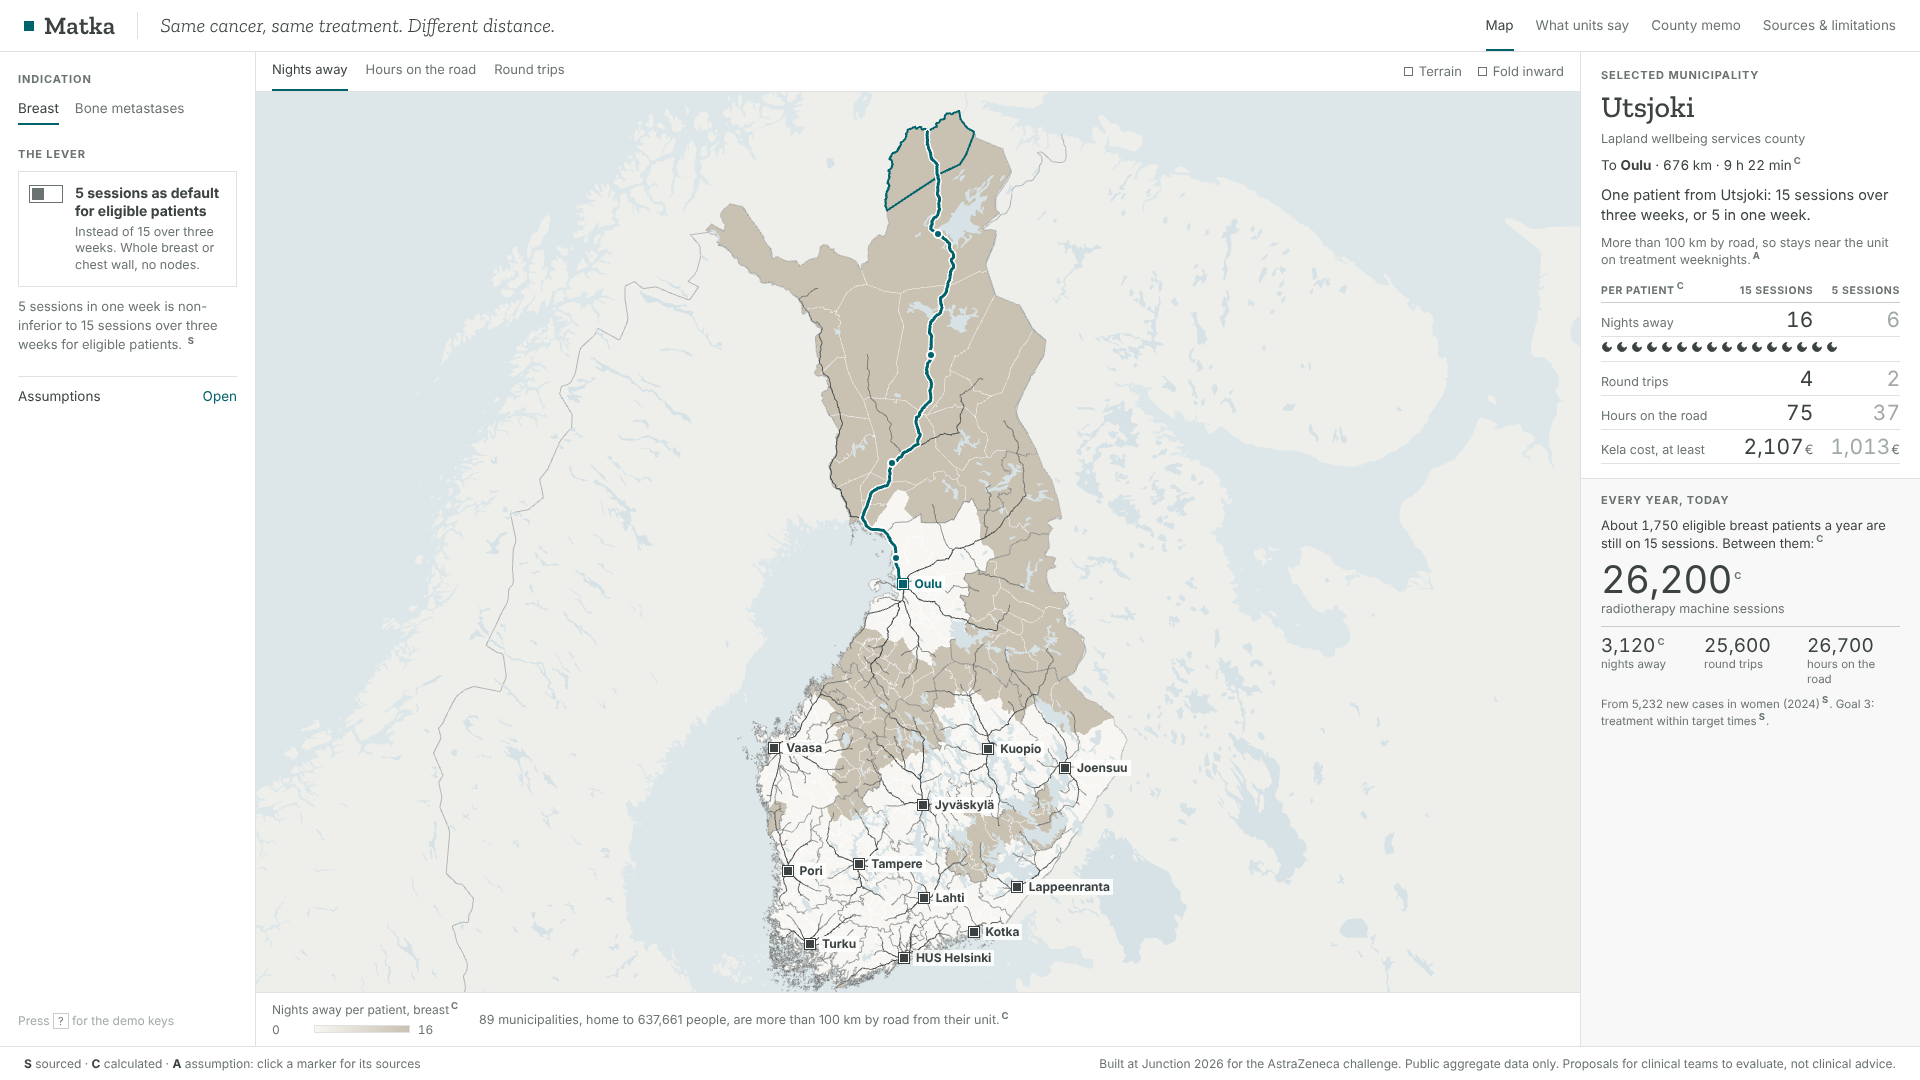
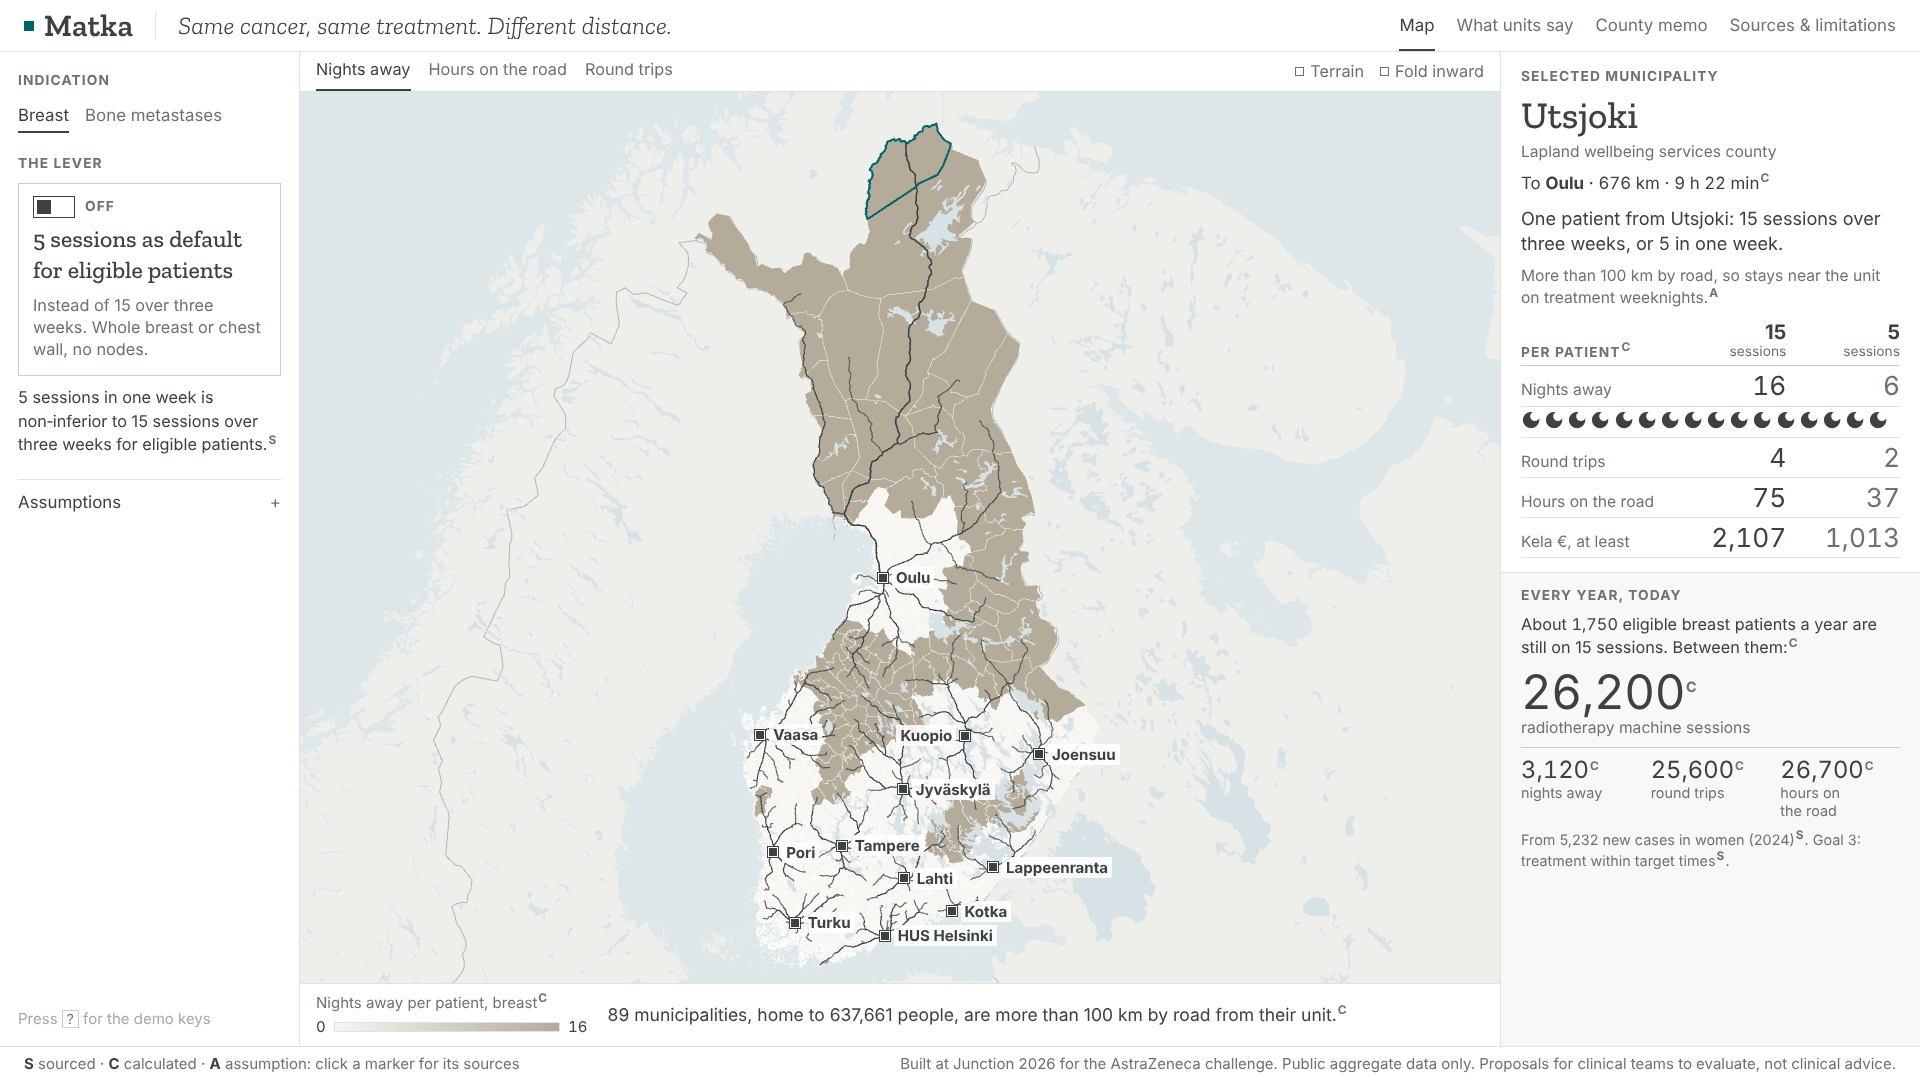
MORNING.md: redesign status, checks, critic rounds, llm-api confirmation, new demo script; PROGRESS.md
Claude-Session: https://claude.ai/code/session_01BVjSLfsprYUuCUa8VpGdqa

diff --git a/MORNING.md b/MORNING.md
@@ -2,7 +2,7 @@
 
 ## 0. Redesign status (branch `redesign`)
 
-**STATUS_PLACEHOLDER**
+**The redesign is solid and ready to present (finished about 02:45 Helsinki, well before the 07:00 cut-off).** All checks below pass on the final commit. If anything misbehaves on the presenting laptop, `claude/sharp-sagan-uaohy1` still has the old demo, untouched.
 
 - Branch: `redesign`, cut from `claude/sharp-sagan-uaohy1` at its tip **236197c** (one screenshot-only commit after 96dad9b). `claude/sharp-sagan-uaohy1` is untouched. The cloud session also mirrors every push to `claude/funny-franklin-79imfr` (the platform's session branch); it holds the same commits.
 - The old demo is still on `claude/sharp-sagan-uaohy1`. To present it instead: `git checkout claude/sharp-sagan-uaohy1`.
@@ -15,7 +15,47 @@ Then open http://localhost:4173. Everything is bundled: no tile server, no keys,
 
 ### Checks
 
-CHECKS_PLACEHOLDER
+All run on the final commit of `redesign`:
+
+- `npx vitest run`: **21 tests pass** (4 new: lever-off yearly burden, lever-on removed = old totals, current − removed = same patients on 5 sessions, trip dots 4 → 2).
+- `.venv/bin/python -I scripts/09_check_data.py`: **passes**. It now also checks `route_lines.json` (all 292 routes present, km/min equal to routes.json, endpoints snapped to the municipality centre and the unit) and `basemap.json`.
+- `npx playwright test tests/e2e/layout.spec.ts --trace off`: **passes at 1280×720, 1440×900 and 1920×1080**. Every demo step (16 per size), checked for overlapping panels, cards and labels within the same `data-layer`, for clipped text (`scrollWidth > clientWidth`), and for boxes cut off by their scroll container or the window. It also asserts the map is ≥ 60% of the width, no console errors, and no request leaving localhost. Screenshots: `screenshots/redesign/<size>/`.
+- `npx playwright test tests/e2e/demo.spec.ts --trace off`: **passes**. Keys 0–7, no console errors, no external requests, the bone card line unclipped, and key 2 ends the counter at exactly "676 km · 9 h 22 min". Screenshots: `screenshots/redesign/demo-1440x900/`.
+- `npx playwright test tests/e2e/viewports.spec.ts --trace off`: **passes** (512×384 to 1920×1080). The fitBounds fallback is kept.
+- `npx oxlint`: 0 errors, 3 warnings (fast-refresh export and a setState-in-effect in MemoTab, all harmless).
+- Data scripts: `scripts/11_natural_earth.py` (raw.githubusercontent.com reachable; 18 MB raw cache in `data/raw/naturalearth/`, gitignored). `scripts/10_route_lines.py` (router.project-osrm.org reachable; 292 routes fetched once and cached in `data/raw/osrm_routes/`, committed like the other OSRM caches). The largest difference between the OSRM route length and routes.json `road_km` is 0.0 km.
+
+### Design critic rounds
+
+Two fresh design-critic sub-agents reviewed the screenshots. Their fixes were applied, and the layout test was re-run after each round.
+
+- **Round 1 (applied):**
+  - Fluid `rem` type scale (14px up to ~1330px wide, ~17.5px at 1920), so text grows on large projectors.
+  - The lever has an explicit On/Off state and a larger switch.
+  - Teal is kept for data only: routes, the selection, the lever-on state and "after" values. UI underlines, links and slider thumbs are graphite.
+  - Darker choropleth.
+  - The terrain sits on the flat choropleth (zero-height areas keep their fill), with softer light and lower relief.
+  - County outlines are drawn only when zoomed in (they speckled the archipelago).
+  - A faint ghost of the folded-away route.
+  - Only the remaining nights turn teal.
+  - Non-breaking "non-inferior" and "8 Gy"; markers stay on the line with their last word.
+  - The memo body is in sans.
+  - Short county names in the memo picker.
+  - The before/after table was rebuilt to fit at 1280.
+- **Round 1 (not applied):** shifting the map when the drawer opens. The owner's plan makes the drawer an overlay.
+- **Round 2 (applied):**
+  - Trip dots, night icons, the km/hours counter and hospital labels scale with the type.
+  - The legend is built from the map's actual colour ramp, and route lines are darker.
+  - The national view (keys 0/1) shows the selected route in graphite; teal and the dots arrive with key 2 or a click.
+  - The totals highlight is a 3px graphite top rule.
+  - Links, the memo button, citation numbers, the traced badge and the map hover are graphite.
+  - The lever title is in Zilla Slab, with larger page headings.
+  - Drawer width in `rem`; the popover is wider and taller.
+  - Balanced caption, and wrap fixes.
+- **Round 2 (not applied):** clamping the flight's bearing to near-north and docking the counter in a corner. The brief says the bearing follows the direction of travel and the label rides with the dot.
+- Also fixed during testing:
+  - deck.gl camera transitions could be cancelled by a React re-render, leaving key 5 flat at 1920. All camera moves are now animated by Matka itself.
+  - Fold dropped all grey routes (deck.gl needed fresh path arrays).
 
 ### AI steps: confirmed API-generated
 

diff --git a/PROGRESS.md b/PROGRESS.md
@@ -97,5 +97,5 @@ Keep the fold toggle off by default.
 - [x] Memo: 4 s stream, superscript citations, numbered sources
 - [x] tests/e2e/layout.spec.ts (overlap + clipping at 1280/1440/1920, screenshots/redesign/)
 - [x] Design critic round 1 + fixes
-- [~] Design critic round 2 + fixes
-- [~] MORNING.md
+- [x] Design critic round 2 + fixes
+- [x] MORNING.md (status, llm-api confirmation, new demo script, not done)
